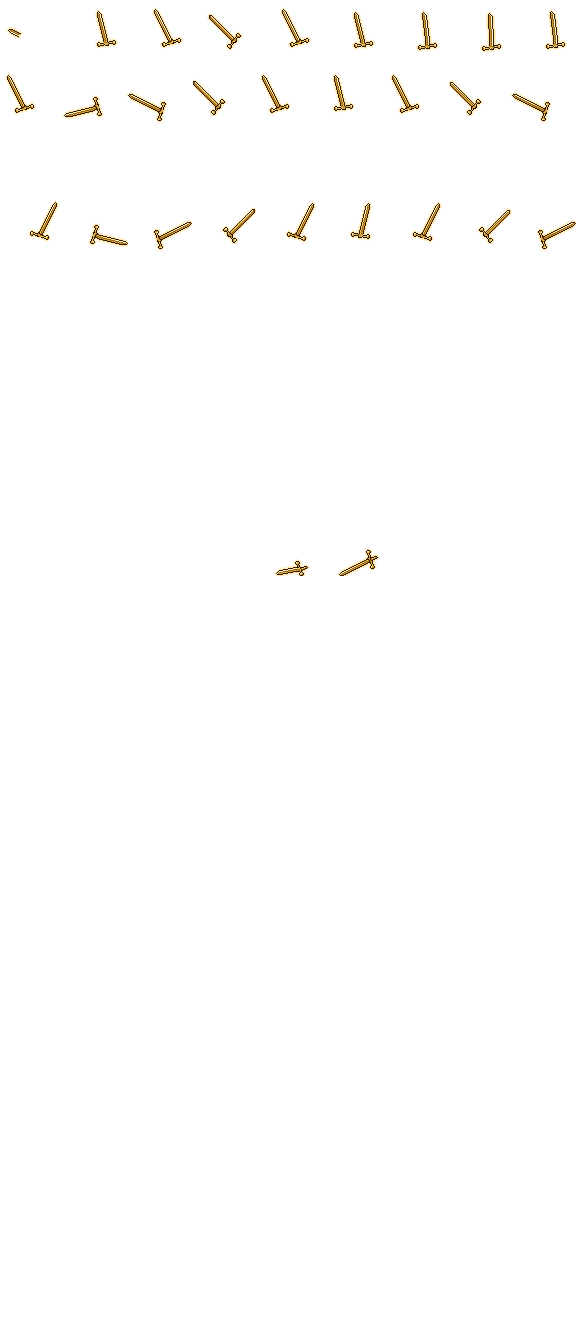
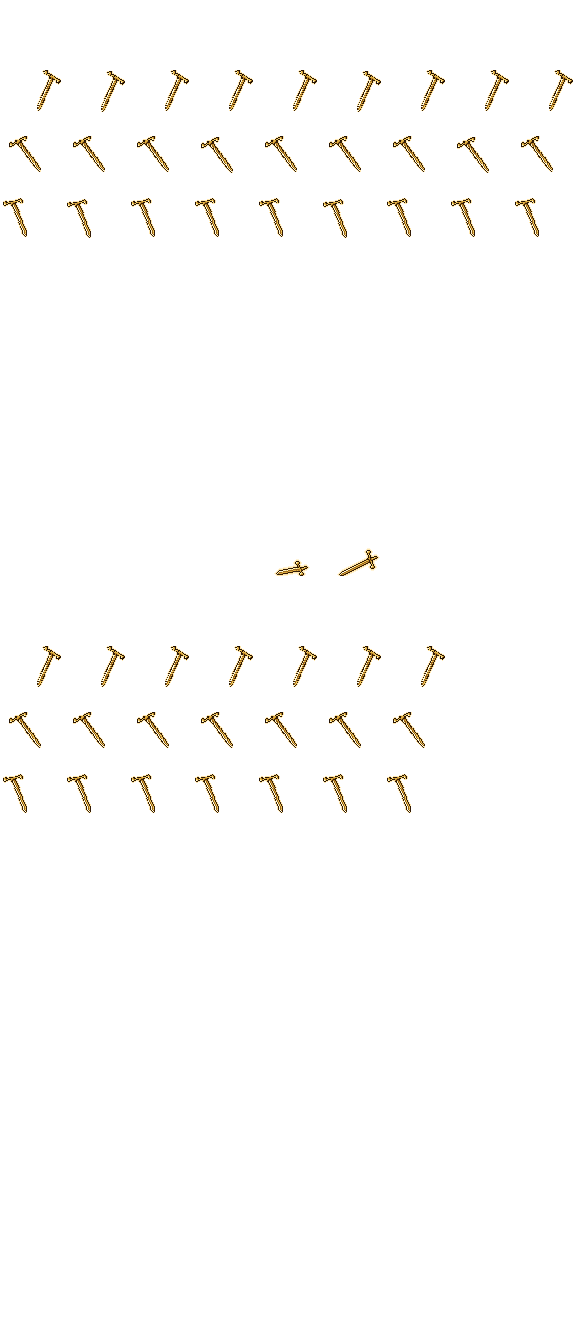
Greatswords/halberds (greatsword type) carried on the back while walking/idle/casting, full swing on attack; target HP bar at top-center for the selected or last-hit monster (gold for elites/mini-bosses, shifts below boss bar)
Claude-Session: https://claude.ai/code/session_01RVFgCBNzd2DQowAD8LfVDX

diff --git a/public/game.js b/public/game.js
@@ -867,6 +867,8 @@ class WorldScene extends Phaser.Scene {
       return;
     }
     const mine = src === room.sessionId, onMe = tgt === room.sessionId;
+    if (mine && v.isMob) { this.lastHitMob = tgt; this.lastHitAt = this.time.now; }
+    if (onMe && src && !this.myTarget) { const sv = this.views.get(src); if (sv && sv.isMob && !(this.lastHitMob && this.time.now - this.lastHitAt < 6000)) { this.lastHitMob = src; this.lastHitAt = this.time.now; } }
     if (!mine && !onMe && !v.isMob) return;
     const x = v.root.x + Phaser.Math.Between(-10, 10), y = v.root.y - 72;
     if (miss) { this.floatText(x, y, "MISS", "#c7cbe0", 12); return; }
@@ -1056,6 +1058,26 @@ class WorldScene extends Phaser.Scene {
     this.tweens.add({ targets: v.sprite, scale: (v.e.scale || 1) * 1.12, duration: 160, yoyo: true, repeat: 2 });
     this.cameras.main.flash(200, 120, 0, 0);
   }
+  // แถบเลือดมอนที่เรากำลังตี: มอนที่คลิกเลือก หรือมอนที่เราตีโดนล่าสุด (ภายใน 6 วิ เช่นตอน AUTO)
+  updateTargetBar(time) {
+    const el = $("tgtBar");
+    if (!el) return;
+    let v = this.myTarget && this.views.get(this.myTarget);
+    if (!v || v.dead) { const h = this.lastHitMob && this.views.get(this.lastHitMob); v = h && !h.dead && time - this.lastHitAt < 6000 ? h : null; }
+    if (!v || v.dead || !v.isMob || v.e.boss) { el.hidden = true; return; }
+    el.hidden = false;
+    el.classList.toggle("below-boss", !$("bossBar").hidden);
+    const e = v.e, me = room.state.players.get(room.sessionId), diff = me ? e.level - me.level : 0;
+    const col = diff >= 6 ? "#ff6b6b" : diff >= 3 ? "#ffb86b" : diff <= -6 ? "#9aa0b4" : "#ecebe4";
+    const key = `${e.name}|${e.level}|${e.hp}|${e.maxHp}|${e.rank}`;
+    if (el.dataset.k === key) return;
+    el.dataset.k = key;
+    $("tgtName").innerHTML = `${e.rank === 2 ? "👑 " : ""}${esc(e.name)}<span class="lv" style="color:${col}">Lv.${e.level}</span>`;
+    const pct = Math.max(0, (e.hp * 100) / e.maxHp);
+    $("tgtFill").style.width = pct + "%";
+    $("tgtFill").classList.toggle("elite", !!e.rank);
+    $("tgtHpTxt").textContent = `${e.hp.toLocaleString()} / ${e.maxHp.toLocaleString()}`;
+  }
   updateBossBar() {
     let b = null;
     this.views.forEach((v) => { if (v.isMob && v.e.boss && !v.dead) b = v; });
@@ -1196,6 +1218,7 @@ class WorldScene extends Phaser.Scene {
   update(time, dt) {
     if (this.petViews) this.updatePets(time);
     this.updateBossBar();
+    this.updateTargetBar(time);
     const k = Math.min(1, (dt / 1000) * 14);
     this.views.forEach((v) => {
       const r = v.root;

diff --git a/public/style.css b/public/style.css
@@ -669,3 +669,15 @@ html, body { overscroll-behavior: none; }
 .ap-pick { display: flex; flex-wrap: wrap; gap: 6px 12px; align-items: center; font-size: 12.5px; margin: 4px 0 6px 22px; color: var(--muted, #a7abc4); }
 .ap-pick > span { flex-basis: 100%; }
 .ap-pick select { background: #10152e; color: #ecebe4; border: 1px solid #2c3561; border-radius: 6px; padding: 2px 4px; font: inherit; }
+
+/* ---------- แถบเลือดมอนที่กำลังตี (กลางจอด้านบน) ---------- */
+#tgtBar { position: fixed; top: 10px; left: 50%; transform: translateX(-50%); z-index: 39; width: min(320px, calc(100vw - 32px));
+  pointer-events: none; text-align: center; font-family: Mitr, sans-serif; }
+#tgtBar.below-boss { top: 58px; }
+#tgtName { color: #fff; font-size: 13px; text-shadow: 0 0 4px #000, 0 1px 2px #000; margin-bottom: 2px; }
+#tgtName .lv { margin-left: 6px; font-size: 12px; }
+#tgtBar .bb-track { position: relative; height: 12px; border: 1px solid #0d1124; border-radius: 6px; background: #1a0d10cc; overflow: hidden; box-shadow: 0 1px 4px #0008; }
+#tgtFill { height: 100%; width: 100%; background: linear-gradient(#ff7a6a, #c42a2a); transition: width .15s; }
+#tgtFill.elite { background: linear-gradient(#ffd36b, #d08a1a); }
+#tgtHpTxt { position: absolute; inset: 0; font-size: 10px; line-height: 11px; color: #fff; text-shadow: 0 0 3px #000; }
+@media (max-height: 540px) { #tgtBar { top: 4px; width: min(220px, 40vw); } #tgtBar.below-boss { top: 40px; } #tgtName { font-size: 11px; } }

diff --git a/public/index.html b/public/index.html
@@ -11,6 +11,7 @@
 </head>
 <body>
   <div id="game"></div>
+  <div id="tgtBar" hidden><div id="tgtName"></div><div class="bb-track"><div id="tgtFill"></div><span id="tgtHpTxt"></span></div></div>
   <div id="bossBar" hidden><div id="bossName"></div><div class="bb-track"><div id="bossFill"></div><span id="bossHpTxt"></span></div></div>
 
   <!-- ================= หน้าเข้าเกม ================= -->

diff --git a/tools/gear/carry.py b/tools/gear/carry.py
@@ -1,0 +1,104 @@
+"""ดาบใหญ่ (wt greatsword) แบกไว้บนหลังตอนเดิน/ยืน/ร่ายสกิล — ตอนฟันใช้ภาพท่าฟัน (_atk) เหมือนเดิม
+แก้ไฟล์ equip/<id>.png และ <id>_back.png ของไอเทมนั้นโดยตรง (ทำซ้ำได้ เพราะเก็บภาพถือดาบต้นฉบับไว้ที่ <id>_held*.png)
+usage: python3 tools/gear/carry.py [id ...]   (ไม่ใส่ = ทุกไอเทม wt greatsword ที่มีภาพ)"""
+import os, sys, json, subprocess, math
+import numpy as np
+from PIL import Image
+ROOT = os.path.dirname(os.path.dirname(os.path.dirname(os.path.abspath(__file__))))
+A = os.path.join(ROOT, "public", "assets")
+DIR_ROW = {"up": 0, "left": 1, "down": 2, "right": 3}
+
+def body_bob():
+    """ความสูงหัวของตัวละครแต่ละเฟรม (เทียบเฟรมยืน) → ดาบขยับตามจังหวะเดิน"""
+    im = np.array(Image.open(f"{A}/look/base_m_light.png").convert("RGBA"))[..., 3] > 0
+    bob = {}
+    for row in list(range(0, 4)) + list(range(9, 13)):
+        tops = []
+        for c in range(9):
+            fr = im[row * 64:(row + 1) * 64, c * 64:(c + 1) * 64]
+            ys = np.where(fr.any(1))[0]
+            tops.append(ys[0] if len(ys) else 0)
+        bob[row] = [t - tops[0] for t in tops]
+    return bob
+
+def axis_info(img):
+    """มุมของแกนยาว (องศา) และทิศที่ปลายกว้างอยู่ — ใช้หมุนครั้งเดียวจากภาพต้นฉบับ (ภาพพิกเซลไม่แตก)"""
+    arr = np.array(img); m = arr[..., 3] >= 200
+    ys, xs = np.nonzero(m)
+    pts = np.stack([xs, ys], 1).astype(float); c = pts.mean(0)
+    _, _, vt = np.linalg.svd(pts - c, full_matrices=False)
+    ax = vt[0]; proj = (pts - c) @ ax; L = proj.max() - proj.min()
+    wide_hi = ((proj > proj.max() - L / 4).sum()) > ((proj < proj.min() + L / 4).sum())
+    if not wide_hi: ax = -ax          # ax ชี้จากปลายแคบ → ปลายกว้าง
+    return math.degrees(math.atan2(ax[1], ax[0])), L
+
+def weapon_src(iid, front, back):
+    best = None   # เฟรมเดินที่เห็นอาวุธเต็มที่สุด (ภาพบนตัวจริง สเกลเดียวกับตัวละคร)
+    for row in range(4):
+        for col in (0, 1, 4):
+            fr = Image.alpha_composite(back.crop((col * 64, row * 64, col * 64 + 64, row * 64 + 64)), front.crop((col * 64, row * 64, col * 64 + 64, row * 64 + 64)))
+            n = (np.array(fr)[..., 3] >= 200).sum()
+            if not best or n > best[0]: best = (n, fr)
+    arr = np.array(best[1]); arr[arr[..., 3] < 200] = 0
+    im = Image.fromarray(arr); return im.crop(im.getbbox())
+
+def render(src, ang, tilt):
+    """หมุนครั้งเดียว: ปลายกว้าง (ด้าม/หัวง้าว) ชี้ขึ้น แล้วเอียง tilt องศา (บวก = ปลายบนเอนไปขวา)"""
+    # ต้องการให้แกน (แคบ→กว้าง) ชี้ขึ้น = -90° แล้วเอียง tilt → มุมเป้าหมาย = -90 + tilt
+    rot = src.rotate(-((-90 + tilt) - ang), resample=Image.NEAREST, expand=True)
+    return rot.crop(rot.getbbox())
+
+def place(sheet, w, row, col, x, y):
+    sheet.alpha_composite(w, (col * 64 + int(round(x)), row * 64 + int(round(y))))
+
+def carry(iid):
+    held_f, held_b = f"{A}/equip/{iid}_held.png", f"{A}/equip/{iid}_heldb.png"
+    src_f, src_b = f"{A}/equip/{iid}.png", f"{A}/equip/{iid}_back.png"
+    if not os.path.exists(held_f):  # เก็บต้นฉบับไว้ครั้งแรก
+        Image.open(src_f).save(held_f)
+        if os.path.exists(src_b): Image.open(src_b).save(held_b)
+    front = Image.open(held_f).convert("RGBA")
+    back = Image.open(held_b).convert("RGBA") if os.path.exists(held_b) else Image.new("RGBA", front.size)
+    src = weapon_src(iid, front, back)
+    ang, L = axis_info(src)
+    if L > 46: src = src.resize((max(1, round(src.width * 46 / L)), max(1, round(src.height * 46 / L))), Image.NEAREST); ang, L = axis_info(src)
+    diag_dn, diag_mir = render(src, ang, 38), render(src, ang, -38)
+    steep, steep_mir = render(src, ang, 22), render(src, ang, -22)
+    gc = ITEMS[iid].get("glowColor")
+    if gc:
+        def glow1(W):
+            arr = np.array(W); m = arr[..., 3] > 0
+            pad = np.pad(m, 1); d = pad[2:, 1:-1] | pad[:-2, 1:-1] | pad[1:-1, 2:] | pad[1:-1, :-2]
+            arr[d & ~m] = [int(gc[i:i + 2], 16) for i in (1, 3, 5)] + [140]; return Image.fromarray(arr)
+        diag_dn, diag_mir, steep, steep_mir = map(glow1, (diag_dn, diag_mir, steep, steep_mir))
+    W = src
+    H = front.height
+    nf, nb = Image.new("RGBA", (576, H)), Image.new("RGBA", (576, H))
+    # แถวตาย (8) ใช้ภาพถือดาบเดิม
+    nf.paste(front.crop((0, 8 * 64, 576, 9 * 64)), (0, 8 * 64)); nb.paste(back.crop((0, 8 * 64, 576, 9 * 64)), (0, 8 * 64))
+    bob = BOB
+    for row in list(range(0, 4)) + list(range(9, 13)):
+        d = row % 4 if row < 4 else (row - 9) % 4
+        dname = ["up", "left", "down", "right"][d]
+        for col in range(9 if row < 4 else 7):
+            dy = bob[row][col]
+            if dname == "down":   # หันหน้า: ดาบอยู่หลังตัว เห็นด้ามเหนือไหล่ขวา (ซ้ายจอ) ปลายใบโผล่ล่างขวา
+                img = diag_mir; place(nb, img, row, col, 9, 8 + dy)
+            elif dname == "up":   # หันหลัง: เห็นดาบพาดหลังเต็ม ๆ
+                img = diag_dn; place(nf, img, row, col, 55 - img.width, 8 + dy)
+            elif dname == "left": # หันซ้าย: หลังอยู่ทางขวาจอ
+                img = steep; place(nb, img, row, col, 37, 6 + dy)
+            else:                 # หันขวา: หลังอยู่ทางซ้ายจอ
+                img = steep_mir; place(nb, img, row, col, 27 - img.width, 6 + dy)
+    nf.save(src_f); nb.save(src_b)
+    return W.size
+
+BOB = None
+ITEMS = json.loads(subprocess.check_output(["node", "-e", "const I=require('./server/items');console.log(JSON.stringify(I.ITEMS))"], cwd=ROOT))
+if __name__ == "__main__":
+    BOB = body_bob()
+    ids = sys.argv[1:]
+    if not ids:
+        items = json.loads(subprocess.check_output(["node", "-e", "const I=require('./server/items');console.log(JSON.stringify(Object.entries(I.ITEMS).filter(([k,i])=>i.wt==='greatsword'&&i.visual).map(([k])=>k)))"], cwd=ROOT))
+        ids = [i for i in items if os.path.exists(f"{A}/equip/{i}.png")]
+    for i in ids: print(i, carry(i))

diff --git a/tools/gear/build_tiers.py b/tools/gear/build_tiers.py
@@ -129,3 +129,5 @@ if __name__ == "__main__":
         print("ok", iid, base, len(fl))
     man["equipLazy"] = sorted(lazy); man["atkLazy"] = atkl; man["icons"] = sorted(icons)
     json.dump(man, open(f"{A}/manifest.json", "w"), separators=(",", ":"))
+    # ดาบใหญ่: แบกบนหลังตอนเดิน (ต้องทำหลังย้อมสีทุกครั้ง)
+    subprocess.check_call(["python3", os.path.join(ROOT, "tools", "gear", "carry.py")], cwd=ROOT)
